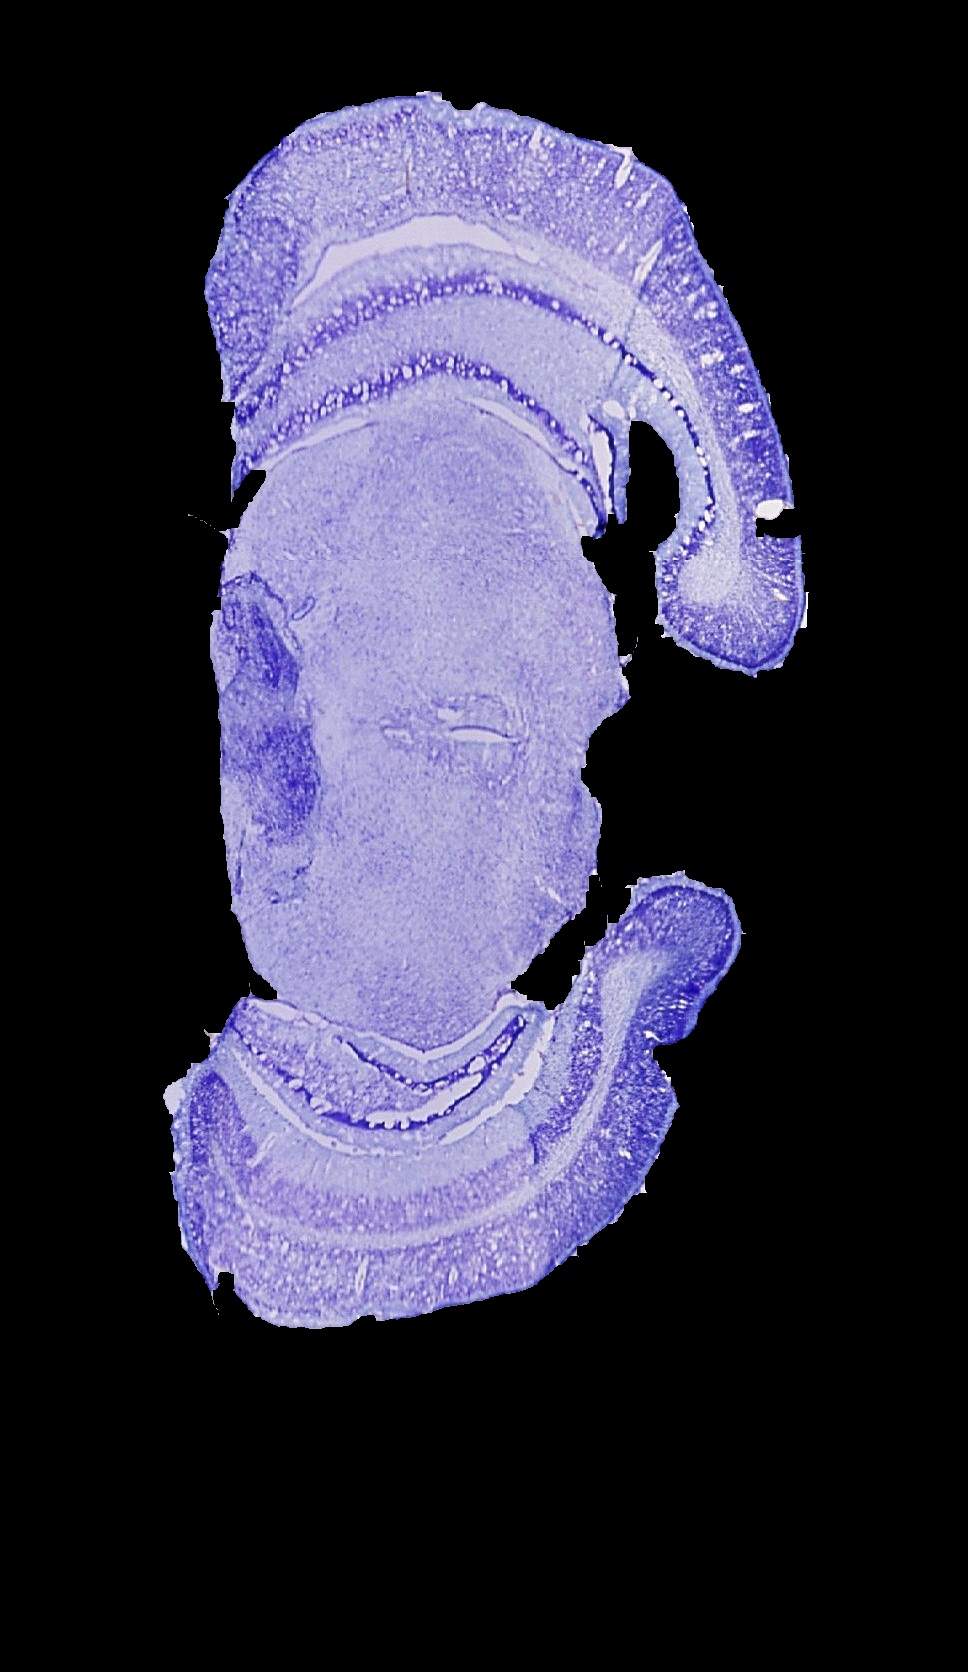
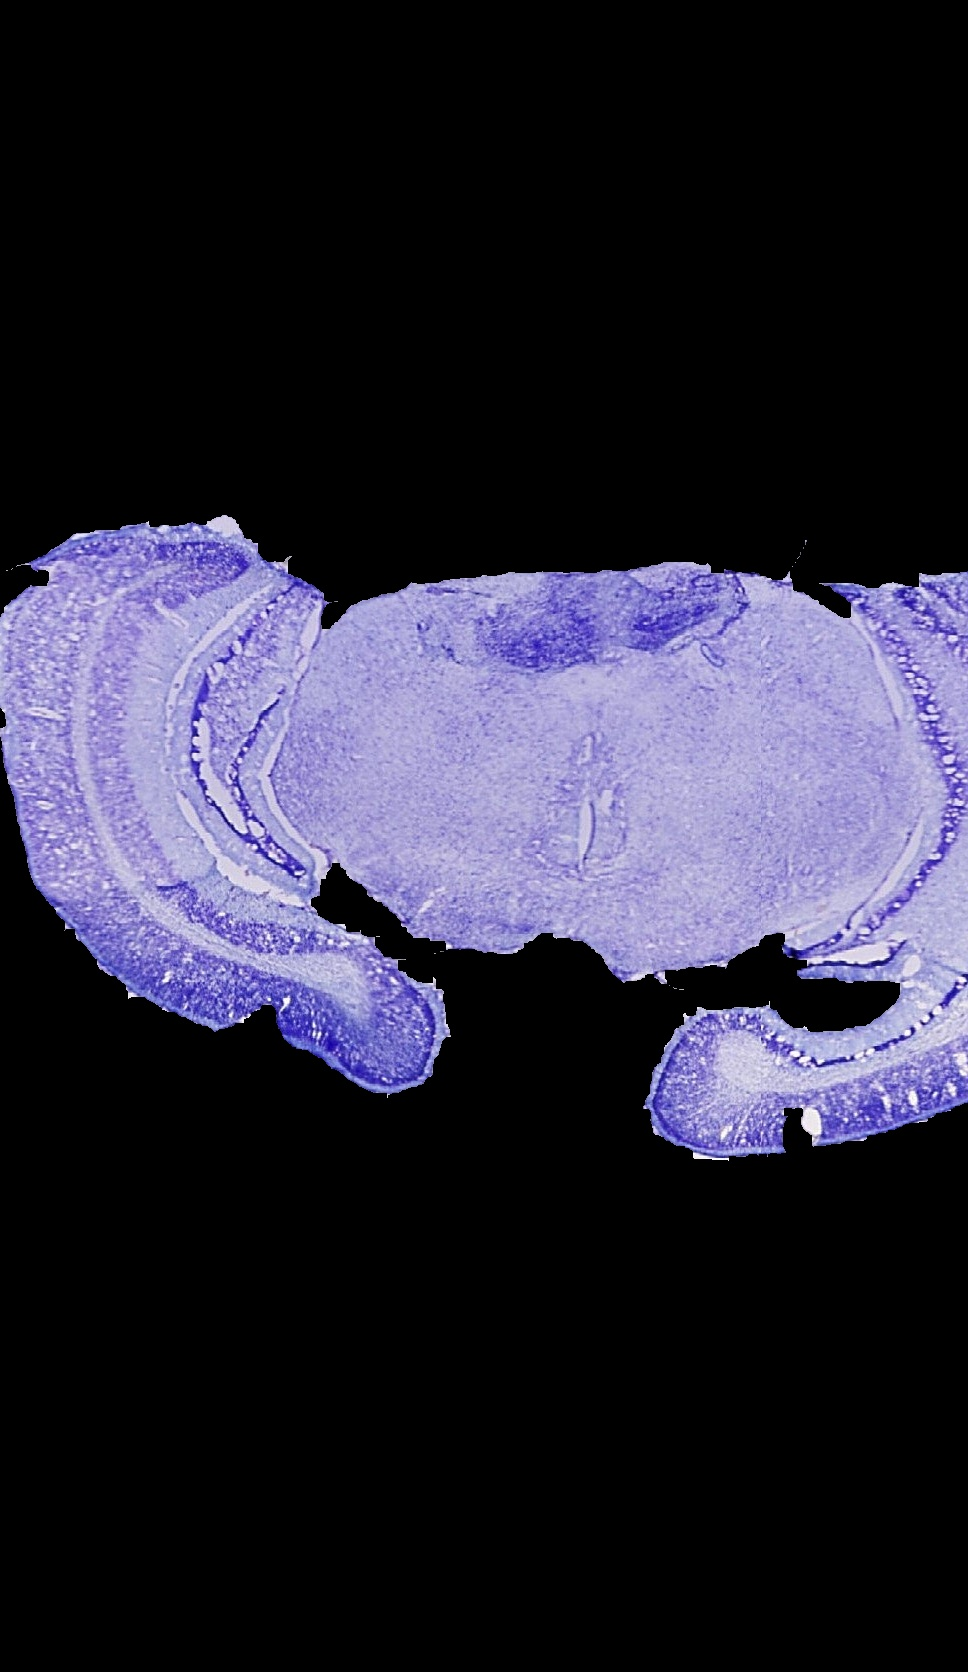
1st working method of image alignment

diff --git a/src/segmentation/rotate_image.py b/src/segmentation/rotate_image.py
@@ -6,33 +6,31 @@ import numpy as np
 from sklearn.decomposition import PCA
 
 
-def rotate_image(image):
+def align_image(image):
     # Convert the image to grayscale
     gray = cv2.cvtColor(image, cv2.COLOR_BGR2GRAY)
 
-    # Reshape the image into a 1D array
-    X = gray.reshape(-1, 1)
+    # Apply Canny edge detection to find edges in the image
+    edges = cv2.Canny(gray, 50, 150, apertureSize=3)
 
-    # Check if the image is flat
-    if X.shape[0] == 1 or X.shape[1] == 1:
+    # Find the lines in the image using the HoughLinesP function
+    lines = cv2.HoughLinesP(edges, rho=1, theta=np.pi/180, threshold=100, minLineLength=100, maxLineGap=10)
+
+    # Check if lines were found
+    if lines is not None and len(lines) > 0:
+        # Calculate the angle of the first line found
+        angle = np.arctan2((lines[0][0][3]-lines[0][0][1]),(lines[0][0][2]-lines[0][0][0])) * 180/np.pi
+
+        # Rotate the image by the calculated angle
+        rows,cols = image.shape[:2]
+        M = cv2.getRotationMatrix2D((cols/2,rows/2),angle,1)
+        rotated_image = cv2.warpAffine(image,M,(cols,rows))
+
+        return rotated_image
+    else:
+        # If no lines were found, return the original image
         return image
 
-    # Apply PCA to find the main axis of the pixel distribution
-    pca = PCA(n_components=2)
-    pca.fit(X)
-    main_axis = pca.components_[0]
-
-    # Calculate the angle between the main axis and the x-axis
-    angle = np.arctan2(main_axis[1], main_axis[0]) * 180 / np.pi
-
-    # Rotate the image to align with the x-axis
-    center = tuple(np.array(gray.shape) // 2)
-    rotation_matrix = cv2.getRotationMatrix2D(center, angle, 1.0)
-    aligned_image = cv2.warpAffine(image, rotation_matrix, gray.shape, flags=cv2.INTER_LINEAR)
-
-    return aligned_image
-
-        
 
 path1 = "data/results good"
 
@@ -51,6 +49,7 @@ for filename in os.listdir(path1):
         # Load the image
         img_path = os.path.join(path1, filename)
         result = seg.segmentation(img_path)
-        rotate_image(result)
+        rotated = align_image(result)
+        # print(angle)
         output_img_path = os.path.join(output_folder, "rotated_"+filename)
-        cv2.imwrite(output_img_path, result)
+        cv2.imwrite(output_img_path, rotated)

diff --git a/tasks/task2/notes.md b/tasks/task2/notes.md
@@ -1,0 +1,1 @@
+* PCA for image alignment : https://ieeexplore.ieee.org/stamp/stamp.jsp?arnumber=8540825
